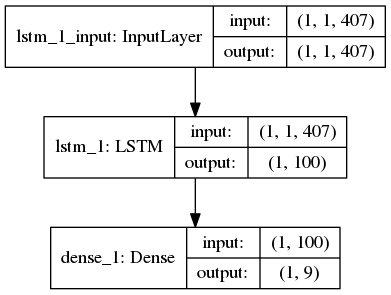
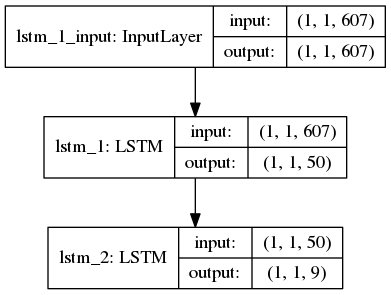
LSTM small changes

diff --git a/src/model/network.py b/src/model/network.py
@@ -88,9 +88,7 @@ class Network(object):
                                           bias_initializer=initializer, kernel_initializer=initializer)
             elif self.parameters.NEURON_TYPE == "LSTM":
                 hidden1 = LSTM(self.hiddenLayer1, input_shape=input_shape_lstm,
-                               activation=self.activationFuncLSTM,
-                                bias_initializer=initializer, kernel_initializer=initializer
-                                , return_sequences = True, stateful= stateful_training, batch_size=self.batch_len)
+                               return_sequences = True, stateful= stateful_training, batch_size=self.batch_len)
 
             self.valueNetwork.add(hidden1)
             #self.valueNetwork.add(Dropout(0.5))
@@ -100,9 +98,7 @@ class Network(object):
                     hidden2 = Dense(self.hiddenLayer2, activation=self.activationFuncHidden,
                                     bias_initializer=initializer, kernel_initializer=initializer)
                 elif self.parameters.NEURON_TYPE == "LSTM":
-                    hidden2 = LSTM(self.hiddenLayer2, activation=self.activationFuncLSTM,
-                                   bias_initializer=initializer, kernel_initializer=initializer,
-                                   return_sequences=True, stateful=stateful_training, batch_size=self.batch_len)
+                    hidden2 = LSTM(self.hiddenLayer2, return_sequences=True, stateful=stateful_training, batch_size=self.batch_len)
                 self.valueNetwork.add(hidden2)
                 #self.valueNetwork.add(Dropout(0.5))
 
@@ -112,13 +108,11 @@ class Network(object):
                     hidden3 = Dense(self.hiddenLayer3, activation=self.activationFuncHidden,
                                     bias_initializer=initializer, kernel_initializer=initializer)
                 elif self.parameters.NEURON_TYPE == "LSTM":
-                    hidden3 = LSTM(self.hiddenLayer3, activation=self.activationFuncLSTM,
-                                   bias_initializer=initializer, kernel_initializer=initializer,
-                                   return_sequences=True, stateful=stateful_training, batch_size=self.batch_len)
+                    hidden3 = LSTM(self.hiddenLayer3, return_sequences=True, stateful=stateful_training, batch_size=self.batch_len)
                 self.valueNetwork.add(hidden3)
                 #self.valueNetwork.add(Dropout(0.5))
 
-            if self.parameters.NEURON_TYPE == "MLP":
+            if self.parameters.NEURON_TYPE == "MLP": #or self.parameters.NEURON_TYPE == "LSTM":
                 self.valueNetwork.add(
                     Dense(self.num_actions, activation=self.activationFuncOutput, bias_initializer=initializer
                           , kernel_initializer=initializer))
@@ -128,6 +122,8 @@ class Network(object):
 
         self.targetNetwork = keras.models.clone_model(self.valueNetwork)
         self.targetNetwork.set_weights(self.valueNetwork.get_weights())
+
+
 
         if self.optimizer == "Adam":
             optimizer = keras.optimizers.Adam(lr=self.learningRate)
@@ -139,29 +135,23 @@ class Network(object):
         self.valueNetwork.compile(loss='mse', optimizer=optimizer)
         self.targetNetwork.compile(loss='mse', optimizer=optimizer)
 
-        if self.parameters.NEURON_TYPE == "LSTM" and self.parameters.EXP_REPLAY_ENABLED == True:
+        if self.parameters.NEURON_TYPE == "LSTM":
             # We predict using only one state
             input_shape_lstm = (1, self.stateReprLen)
-            self.lstm_move_value_network = Sequential()
+            self.actionNetwork = Sequential()
             hidden1 = LSTM(self.hiddenLayer1, input_shape=input_shape_lstm,
-                           activation=self.activationFuncLSTM,
-                           bias_initializer=initializer, kernel_initializer=initializer
-                           , return_sequences=True, stateful=True, batch_size=1)
-            self.lstm_move_value_network.add(hidden1)
+                            return_sequences=True, stateful=True, batch_size=1)
+            self.actionNetwork.add(hidden1)
 
             if self.hiddenLayer2 > 0:
-                hidden2 = LSTM(self.hiddenLayer2, activation=self.activationFuncLSTM,
-                                   bias_initializer=initializer, kernel_initializer=initializer,
-                                   return_sequences=True, stateful=True, batch_size=self.batch_len)
-                self.lstm_move_value_network.add(hidden2)
+                hidden2 = LSTM(self.hiddenLayer2, return_sequences=True, stateful=True, batch_size=self.batch_len)
+                self.actionNetwork.add(hidden2)
             if self.hiddenLayer3 > 0:
-                hidden3 = LSTM(self.hiddenLayer3, activation=self.activationFuncLSTM,
-                                   bias_initializer=initializer, kernel_initializer=initializer,
-                                   return_sequences=True, stateful=True, batch_size=self.batch_len)
-                self.lstm_move_value_network.add(hidden3)
-            self.lstm_move_value_network.add(LSTM(self.num_actions, activation=self.activationFuncOutput,
-                                   return_sequences=False, stateful=True, batch_size=self.batch_len))
-            self.lstm_move_value_network.compile(loss='mse', optimizer=optimizer)
+                hidden3 = LSTM(self.hiddenLayer3, return_sequences=True, stateful=True, batch_size=self.batch_len)
+                self.actionNetwork.add(hidden3)
+            self.actionNetwork.add(LSTM(self.num_actions, activation=self.activationFuncOutput,
+                                        return_sequences=False, stateful=True, batch_size=self.batch_len))
+            self.actionNetwork.compile(loss='mse', optimizer=optimizer)
 
         if modelName is not None:
             self.load(modelName)
@@ -182,11 +172,10 @@ class Network(object):
         self.reset_general(self.valueNetwork)
         self.reset_general(self.targetNetwork)
 
-    def reset_hidden_states_prediction(self):
-        if self.parameters.EXP_REPLAY_ENABLED:
-            self.lstm_move_value_network.reset_states()
-        else:
-            self.valueNetwork.reset_states()
+    def reset_hidden_states(self):
+        self.actionNetwork.reset_states()
+        self.valueNetwork.reset_states()
+        self.targetNetwork.reset_states()
 
     def load(self, modelName):
         path = "savedModels/" + modelName
@@ -199,11 +188,11 @@ class Network(object):
     def trainOnBatch(self, inputs, targets):
         if self.parameters.NEURON_TYPE == "LSTM":
             if self.parameters.EXP_REPLAY_ENABLED:
-                self.valueNetwork.train_on_batch(inputs, targets)
+                return self.valueNetwork.train_on_batch(inputs, targets)
             else:
-                self.valueNetwork.train_on_batch(numpy.array([numpy.array([inputs])]), numpy.array([numpy.array([targets])]))
+                return self.valueNetwork.train_on_batch(numpy.array([numpy.array([inputs])]), numpy.array([numpy.array([targets])]))
         else:
-            self.valueNetwork.train_on_batch(inputs, targets)
+            return self.valueNetwork.train_on_batch(inputs, targets)
 
     def predict(self, state, batch_len = 1):
         if self.parameters.NEURON_TYPE == "LSTM":
@@ -223,8 +212,8 @@ class Network(object):
 
     def predict_single_trace_LSTM(self, trace, update_weights = True):
         if update_weights:
-            self.lstm_move_value_network.set_weights(self.valueNetwork.get_weights())
-        return self.lstm_move_value_network.predict(numpy.array([numpy.array([trace])]))[0]
+            self.actionNetwork.set_weights(self.valueNetwork.get_weights())
+        return self.actionNetwork.predict(numpy.array([numpy.array([trace])]))[0]
 
     def saveModel(self, path):
         self.targetNetwork.set_weights(self.valueNetwork.get_weights())

diff --git a/src/model/qLearning.py b/src/model/qLearning.py
@@ -25,7 +25,7 @@ class QLearn(object):
     def reset(self):
         self.latestTDerror = None
         if self.parameters.NEURON_TYPE == "LSTM":
-            self.network.reset_hidden_states_prediction()
+            self.network.reset_hidden_states()
 
     def reset_weights(self):
         self.network.reset_weights()
@@ -59,6 +59,23 @@ class QLearn(object):
         alive = new_s is not None
         state_Q_values = self.network.predict(old_s)
         target = self.calculateTargetForAction(new_s, r, alive)
+        q_value_of_action = state_Q_values[a]
+        td_error = target - q_value_of_action
+        return td_error
+
+    def calculateTDError_ExpRep_Lstm(self, exp):
+        old_s, a, r, new_s, _ = exp
+        alive = new_s is not None
+        state_Q_values = self.network.predict_single_trace_LSTM(old_s, False)
+        target = r
+        if alive:
+            # The target is the reward plus the discounted prediction of the value network
+            action_Q_values = self.network.predict_single_trace_LSTM(new_s, False)
+
+            # TODO: Maybe this is not so smart at all! The hidden state of this prediction will be passed on, so it might lead to weird hidden states if we train twice on one?
+
+            newActionIdx = numpy.argmax(action_Q_values)
+            target += self.network.getDiscount() * action_Q_values[newActionIdx]
         q_value_of_action = state_Q_values[a]
         td_error = target - q_value_of_action
         return td_error
@@ -101,10 +118,16 @@ class QLearn(object):
             for j in range(self.parameters.TRACE_MIN, len_trace):
                 a = numpy.argmax(target_val[i][j])
                 # TODO: target is reward if the agent died.
-
                 target[i][j][int(action[i][j])] = reward[i][j] + self.parameters.DISCOUNT * (target_val[i][j][a])
-
+        print("Weights before training:")
+        print(self.network.valueNetwork.get_weights()[0])
         self.network.trainOnBatch(old_states, target)
+        print("After training:")
+        print(self.network.valueNetwork.get_weights()[0])
+
+
+#TODO: With lstm neurons we need one network python object per learning agent in the environment.
+#TODO: !! important if at some point we want to train multiple lstm agents
 
     def train_LSTM(self, batch):
         if self.parameters.EXP_REPLAY_ENABLED:
@@ -113,8 +136,26 @@ class QLearn(object):
                 self.train_LSTM_batch(batch[:-1])
         else:
             old_s, a, r, new_s, reset = batch[-1]
-            target = self.calculateTarget(old_s, a, r, new_s)
-            self.network.trainOnBatch(old_s, target)
+
+            target = self.network.predict(old_s)
+            # Debug: print predicted q values:
+            average_value = round(numpy.mean(target), 2)
+            q_value = round(target[a], 2)
+            print("Expected Q-value: ", average_value, " Q(s,a) of current action: ", q_value)
+
+            # Calculate target for action that we took:
+            alive = (new_s is not None)
+            target_for_action = self.calculateTargetForAction(new_s, r, alive)
+            self.latestTDerror = target_for_action - target[a] # BookKeeping
+            target[a] = target_for_action
+            print("Reward: ", round(r, 2))
+            print("Target for action: ", round(target_for_action, 2))
+            print("TD-Error: ", self.latestTDerror)
+            loss = self.network.trainOnBatch(old_s, target)
+            print("Loss: ", loss)
+            print("")
+
+#TODO: Get loss from all trainOnBatch calls, store them in an array and plot them
 
 
     def learn(self, batch):
@@ -126,15 +167,20 @@ class QLearn(object):
             self.train(batch)
 
         #Book keeping. batch[-1] is the current experience:
-        if __debug__ and self.parameters.NEURON_TYPE == "MLP":
+        if __debug__ and not self.parameters.NEURON_TYPE == "LSTM":
             currentExp = batch[-1]
-            self.latestTDerror = self.calculateTDError(currentExp)
+            if self.parameters.NEURON_TYPE == "MLP" or not self.parameters.EXP_REPLAY_ENABLED:
+                self.latestTDerror = self.calculateTDError(currentExp)
+            else:
+                self.latestTDerror = self.calculateTDError_ExpRep_Lstm(currentExp)
 
         self.updateTargetModel()
+
 
     def updateTargetModel(self):
         if self.time % self.parameters.TARGET_NETWORK_MAX_STEPS == 0:
             self.network.targetNetwork.set_weights(self.network.valueNetwork.get_weights())
+
 
     def decideMove(self, newState, bot):
         # Take random action with probability 1 - epsilon
@@ -144,11 +190,11 @@ class QLearn(object):
                 print("Explore")
                 bot.setExploring(True)
         else:
-            if bot.parameters.NEURON_TYPE == "MLP" or not bot.parameters.EXP_REPLAY_ENABLED:
+            if bot.parameters.NEURON_TYPE == "MLP":
                 # Take action based on greediness towards Q values
                 q_Values = self.network.predict(newState)
             else:
-                if self.time % self.parameters.UPDATE_LSTM_MOVE_NETWORK:
+                if self.time % self.parameters.UPDATE_LSTM_MOVE_NETWORK == 0:
                     update = True
                 else:
                     update = False

diff --git a/src/model/model.py b/src/model/model.py
@@ -133,14 +133,16 @@ class Model(object):
         rewards = []
         for bot in self.bots:
             if bot.getType() == "NN":
-                if bot.getCurrentAction() is not None and bot.getLearningAlg().getTDError() is not None:
+                if bot.getCurrentAction() is not None:
                     reward = bot.getLastReward()
-                    tdError = abs(bot.getLearningAlg().getTDError())
                     rewards.append(reward)
+                if bot.getLearningAlg().getTDError() is not None:
+                    tdError = abs(bot.getLearningAlg().getTDError())
                     errors.append(tdError)
         # Save the mean td error and reward for the bots per update
         if len(rewards) > 0:
             self.rewards.append(numpy.mean(rewards))
+        if len(errors) > 0:
             self.tdErrors.append(numpy.mean(errors))
 
     def takeBotActions(self):

diff --git a/src/model/networkParameters.py b/src/model/networkParameters.py
@@ -15,7 +15,7 @@ ENABLE_EJECT = False #TODO: en/disable ejection and splitting for both continuou
 
 
 # Q-learning
-EXP_REPLAY_ENABLED = True
+EXP_REPLAY_ENABLED = False
 GRID_VIEW_ENABLED = True
 TARGET_NETWORK_STEPS = 10000
 TARGET_NETWORK_MAX_STEPS = 10000 # 2000 performs worse than 5000. 20000 was a bit better than 5000. 20k was worse than 10k
@@ -58,6 +58,6 @@ ACTIVATION_FUNC_OUTPUT = 'linear'
 #Layer neurons
 STATE_REPR_LEN = GRID_SQUARES_PER_FOV * GRID_SQUARES_PER_FOV * NUM_OF_GRIDS + 2
 HIDDEN_LAYER_1 = 100
-HIDDEN_LAYER_2 = 100
-HIDDEN_LAYER_3 = 100
+HIDDEN_LAYER_2 = 0
+HIDDEN_LAYER_3 = 0
 # More hidden layers lead to improved performance. Best so far three hidden layers with 100 neurons each and relu activation
